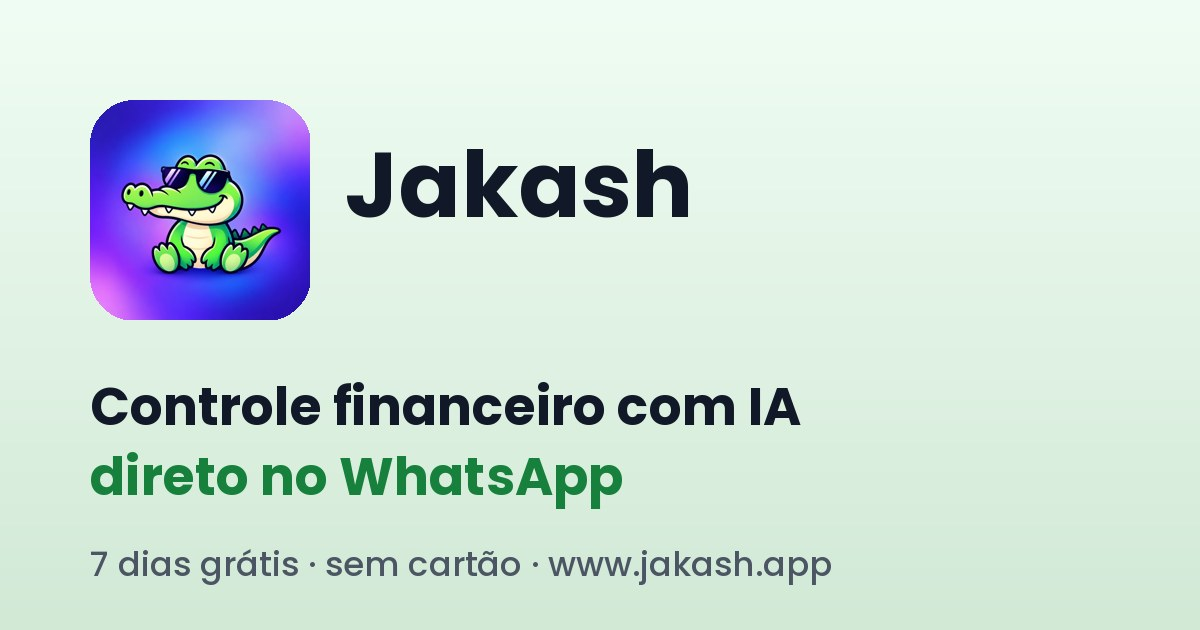
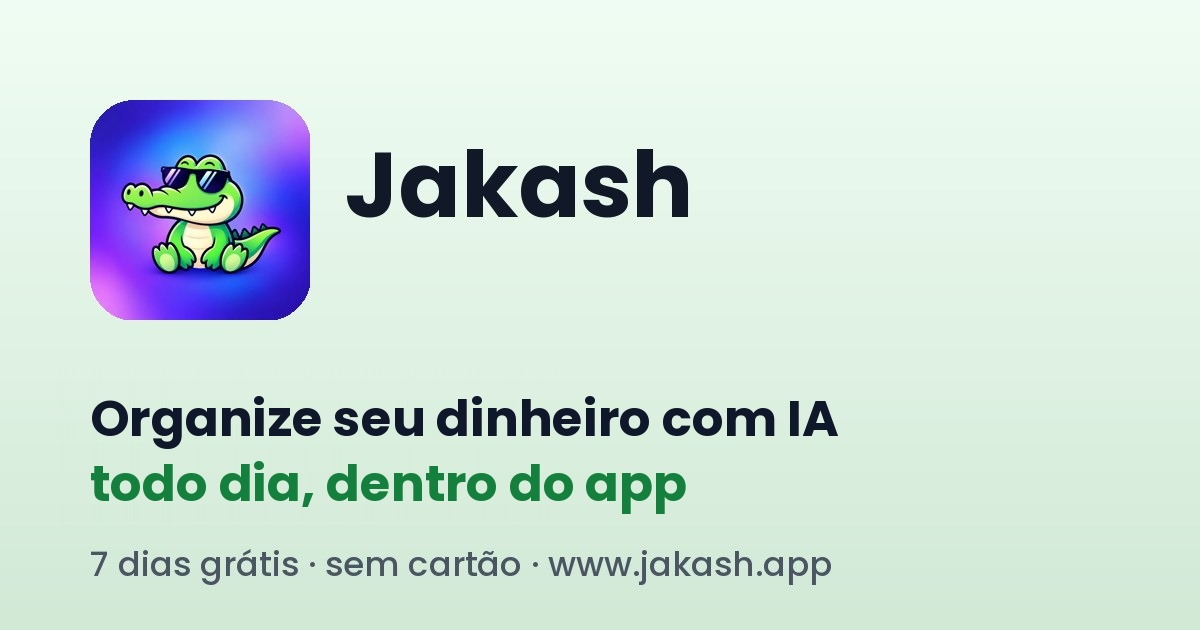
docs(copy): landing, SEO, legais e imagens sem o assistente do WhatsApp
Novo posicionamento: app para organizar o dinheiro no dia a dia, com assistente de IA dentro do app.
- landing, FAQ/JSON-LD, metadata, manifest, llms.txt, ai.txt e 404.html
- termos de uso, politica de privacidade (sem Meta/WhatsApp), sobre; data da ultima atualizacao dos textos legais
- og-image e twitter-card regerados sem a frase do WhatsApp

Claude-Session: https://claude.ai/code/session_0173mJSXeSC2Xzw29ZsWZu14

Changed region(s): [[0.0617, 0.6032, 0.7092, 0.8143]]

diff --git a/src/app/page.tsx b/src/app/page.tsx
@@ -1,13 +1,12 @@
 "use client";
 
-import { useEffect, useState } from "react";
+import { useEffect } from "react";
 import { Header } from "@/components/Header";
 import { Footer } from "@/components/Footer";
 import { CTAButton } from "@/components/CTAButton";
 import { FAQItem } from "@/components/FAQItem";
 import { SectionBadge } from "@/components/SectionBadge";
 import { PLANS, planPrice, type PlanId } from "@/lib/plans";
-import { formatPhone } from "@/lib/phone";
 import { FAQS, homeJsonLd } from "@/lib/seo";
 import { JsonLd } from "@/components/JsonLd";
 import {
@@ -23,7 +22,7 @@ const LANDING_PLANS: { id: PlanId; title: string; subtitle: string; highlight?: 
     subtitle: "Para organizar as suas finanças",
     features: [
       "1 pessoa",
-      "Lançamentos pelo WhatsApp com IA",
+      "Lançamentos e importação de extrato (OFX, CSV, PDF)",
       "Painel com gráficos, limites e objetivos",
       "Contas a pagar, dívidas e reserva de emergência",
       "Lista de compras (Comprar)",
@@ -58,11 +57,6 @@ const LANDING_PLANS: { id: PlanId; title: string; subtitle: string; highlight?: 
 ];
 
 export default function LandingPage() {
-  const [botNumber, setBotNumber] = useState<string | null>(null);
-  useEffect(() => {
-    fetch("/api/whatsapp/bot").then((r) => (r.ok ? r.json() : null)).then((j) => setBotNumber(j?.number ?? null)).catch(() => setBotNumber(null));
-  }, []);
-
   // Intersection Observer for fade-in animations on scroll
   useEffect(() => {
     const observer = new IntersectionObserver((entries) => {
@@ -101,11 +95,11 @@ export default function LandingPage() {
               </div>
               
               <h1 className="text-5xl md:text-6xl font-extrabold text-gray-900 tracking-tight mb-6 leading-[1.1]">
-                Controle financeiro com Inteligência Artificial, direto no <span className="text-brand-dark italic">WhatsApp</span>
+                Organize seu dinheiro <span className="text-brand-dark italic">todo dia</span>, com uma assistente de IA dentro do app
               </h1>
               
               <p className="text-lg md:text-xl text-gray-500 mb-10 leading-relaxed max-w-xl font-medium">
-                Seu assistente financeiro com Inteligência Artificial. Mande “gastei 45 no mercado” no WhatsApp e o Jakash lança, categoriza e mostra no painel para onde vai o seu dinheiro.
+                Lançamentos, contas a pagar, cartões e parcelas, lista de compras, dívidas, objetivos, MEI separado e família. Tudo num lugar só, com a Jaki, a assistente de IA do app, para tirar dúvidas sobre as suas finanças.
               </p>
               
               <CTAButton text="Testar 7 dias grátis →" size="lg" className="h-16 px-10 text-lg w-full sm:w-auto" />
@@ -116,22 +110,22 @@ export default function LandingPage() {
               {/* Fake Phone Mockup */}
               <div className="absolute left-1/2 top-1/2 -translate-x-1/2 -translate-y-1/2 w-[320px] h-[650px] bg-white border-[8px] border-gray-100 rounded-[3rem] shadow-2xl animate-float z-10 flex flex-col overflow-hidden ring-1 ring-gray-200">
                  <div className="w-32 h-6 bg-gray-100 absolute top-0 left-1/2 -translate-x-1/2 rounded-b-3xl z-20"></div>
-                 {/* WhatsApp BG */}
+                 {/* Avisos do app */}
                  <div className="flex-1 bg-[#F5F5F5] p-4 flex flex-col gap-4 pt-16">
                     {/* Floating Notifications */}
                     <div className="bg-white border border-gray-100 p-3 rounded-2xl shadow-sm relative -left-8 w-[110%]">
-                      <div className="flex items-center gap-2 mb-1"><div className="w-5 h-5 bg-[#25D366] rounded-full flex items-center justify-center text-white text-[10px] font-bold">W</div><span className="text-xs text-gray-400 font-bold">Jakash - agora</span></div>
+                      <div className="flex items-center gap-2 mb-1"><div className="w-5 h-5 bg-brand-dark rounded-full flex items-center justify-center text-white text-[10px] font-bold">J</div><span className="text-xs text-gray-400 font-bold">Jakash - agora</span></div>
                       <p className="text-sm text-gray-700 font-medium">Sua conta de luz vence amanhã: <span className="font-bold text-brand-dark">R$ 187,40</span></p>
                     </div>
 
                     <div className="bg-white border border-gray-100 p-3 rounded-2xl shadow-sm relative left-4 w-[100%]">
-                      <div className="flex items-center gap-2 mb-1"><div className="w-5 h-5 bg-[#25D366] rounded-full flex items-center justify-center text-white text-[10px] font-bold">W</div><span className="text-xs text-gray-400 font-bold">Jakash - há 12 min</span></div>
-                      <p className="text-sm text-gray-700 font-medium">Anotei ✅ Mercado, <span className="font-bold text-brand-dark">R$ 45,00</span> em Alimentação</p>
+                      <div className="flex items-center gap-2 mb-1"><div className="w-5 h-5 bg-brand-dark rounded-full flex items-center justify-center text-white text-[10px] font-bold">J</div><span className="text-xs text-gray-400 font-bold">Jakash - há 12 min</span></div>
+                      <p className="text-sm text-gray-700 font-medium">Lançamento salvo: Mercado, <span className="font-bold text-brand-dark">R$ 45,00</span> em Alimentação</p>
                     </div>
 
                     <div className="bg-white border border-gray-100 p-3 rounded-2xl shadow-sm relative -left-4 w-[105%]">
-                      <div className="flex items-center gap-2 mb-1"><div className="w-5 h-5 bg-[#25D366] rounded-full flex items-center justify-center text-white text-[10px] font-bold">W</div><span className="text-xs text-gray-400 font-bold">Jakash - há 1h</span></div>
-                      <p className="text-sm text-gray-700 font-medium">Entrada registrada ✅ Salário, <span className="font-bold text-emerald-600">R$ 4.200,00</span></p>
+                      <div className="flex items-center gap-2 mb-1"><div className="w-5 h-5 bg-brand-dark rounded-full flex items-center justify-center text-white text-[10px] font-bold">J</div><span className="text-xs text-gray-400 font-bold">Jakash - há 1h</span></div>
+                      <p className="text-sm text-gray-700 font-medium">Entrada registrada: Salário, <span className="font-bold text-emerald-600">R$ 4.200,00</span></p>
                     </div>
                  </div>
               </div>
@@ -162,10 +156,10 @@ export default function LandingPage() {
                 jakash
               </div>
               <div className="bg-white border border-gray-100 shadow-sm p-8 rounded-[24px] flex items-center justify-center font-bold text-xl h-32 text-gray-900">
-                WhatsApp
+                Contas e<br/>cartões
               </div>
               <div className="bg-white border border-gray-100 shadow-sm p-8 rounded-[24px] flex items-center justify-center font-bold text-lg text-center h-32 text-gray-900">
-                Inteligência<br/>Artificial
+                Assistente<br/>de IA no app
               </div>
               <div className="bg-white border border-gray-100 shadow-sm p-8 rounded-[24px] flex flex-col items-center justify-center h-32 text-gray-400">
                 <Lock size={24} className="mb-2" />
@@ -180,7 +174,7 @@ export default function LandingPage() {
           <div className="max-w-7xl mx-auto fade-in-section">
             <SectionBadge text="✓ SOLUÇÃO" />
             <h2 className="text-4xl md:text-5xl font-bold mb-16 max-w-2xl">
-              Por que usar um Assistente Financeiro com Inteligência Artificial?
+              Por que usar o Jakash para organizar o seu dinheiro?
             </h2>
             
             <div className="grid grid-cols-1 md:grid-cols-3 gap-8">
@@ -189,7 +183,7 @@ export default function LandingPage() {
                   <CalendarDays size={32} />
                 </div>
                 <h3 className="text-xl font-bold mb-4">Lembretes de contas e vencimentos</h3>
-                <p className="text-gray-500 font-medium leading-relaxed">Contas a pagar, boletos e faturas de cartão no painel, com lembrete no WhatsApp para você não pagar juros.</p>
+                <p className="text-gray-500 font-medium leading-relaxed">Contas a pagar, boletos e faturas de cartão no painel, com lembrete por aviso no aparelho ou e-mail para você não pagar juros.</p>
               </div>
               
               <div className="bg-[var(--bg-1)] p-10 rounded-[2rem] hover:-translate-y-2 transition-transform duration-300">
@@ -217,11 +211,11 @@ export default function LandingPage() {
             <div className="lg:w-1/2">
               <SectionBadge text="✓ AUTOMAÇÃO" />
               <h2 className="text-4xl md:text-5xl font-bold mb-6 leading-tight">
-                Organização Financeira pelo WhatsApp, <br/>
-                <span className="text-brand-dark">sem anotar nada.</span>
+                Organização financeira no dia a dia, <br/>
+                <span className="text-brand-dark">sem complicação.</span>
               </h2>
               <p className="text-lg text-gray-500 font-medium mb-10 leading-relaxed">
-                Você manda a mensagem e ele lança e categoriza. Nas contas a pagar, o Jakash lembra você no WhatsApp antes do vencimento. Você só decide.
+                Cadastre suas contas a pagar e seus cartões. O Jakash lembra você antes do vencimento, por aviso no aparelho ou e-mail. Você só decide.
               </p>
               <CTAButton text="Testar 7 dias grátis →" />
             </div>
@@ -290,12 +284,12 @@ export default function LandingPage() {
                 Registro rápido, <span className="text-brand-dark">sem planilha</span>
               </h2>
               <p className="text-lg text-gray-500 font-medium mb-8 leading-relaxed">
-                Você conta o que gastou ou recebeu e o Jakash organiza: categoria, data e valor no lugar certo, com saldo, limites e objetivos sempre atualizados.
+                Você lança o que gastou ou recebeu e o Jakash organiza: categoria, data e valor no lugar certo, com saldo, limites e objetivos sempre atualizados.
               </p>
               <ul className="space-y-4 mb-10">
                 {[
-                  'Lançamentos pelo WhatsApp, em texto',
-                  'IA que categoriza para você',
+                  'Lançamentos rápidos pelo app',
+                  'Importação de extrato em OFX, CSV, planilha ou PDF',
                   'Categorias e subcategorias que você edita',
                   'Painel com saldo, limites e objetivos'
                 ].map((item, i) => (
@@ -347,8 +341,8 @@ export default function LandingPage() {
                 {/* Floating Chat Bubble */}
                 <div className="absolute bottom-10 left-1/2 -translate-x-1/2 w-[90%] max-w-md bg-white p-6 rounded-3xl shadow-2xl animate-float text-gray-900">
                   <div className="flex items-center gap-3 mb-3">
-                    <div className="w-8 h-8 rounded-full bg-[#25D366] flex items-center justify-center text-white font-bold text-xs">W</div>
-                    <span className="font-bold text-sm text-gray-500">Jakash - agora</span>
+                    <div className="w-8 h-8 rounded-full bg-brand-dark flex items-center justify-center text-white font-bold text-xs">J</div>
+                    <span className="font-bold text-sm text-gray-500">Jaki - agora</span>
                   </div>
                   <p className="text-gray-900 text-[15px] font-medium leading-relaxed">
                     Você gastou R$ 312 em delivery este mês. Ainda está abaixo do orçamento: sobram R$ 88 para usar. 🍔
@@ -364,19 +358,19 @@ export default function LandingPage() {
           <div className="max-w-6xl mx-auto fade-in-section">
             <SectionBadge text="✓ INÍCIO" />
             <h2 className="text-4xl md:text-5xl font-bold mb-20">
-              Como funciona a <span className="text-brand-dark">Gestão Financeira no WhatsApp</span> em 3 passos
+              Como funciona o <span className="text-brand-dark">Jakash</span> em 3 passos
             </h2>
             
             <div className="grid grid-cols-1 md:grid-cols-3 gap-8 mb-16">
               <div className="bg-white rounded-[2rem] p-8 flex flex-col items-center shadow-sm">
                 <div className="h-32 flex items-center justify-center mb-6">
                   <div className="bg-gray-50 px-6 py-3 rounded-full font-mono font-bold text-lg border border-gray-100 flex items-center gap-3 text-gray-700">
-                    <div className="w-8 h-8 rounded-full bg-[#25D366] text-white flex items-center justify-center">W</div>
-                    {botNumber ? formatPhone(botNumber) : "Assistente no WhatsApp"}
+                    <div className="w-8 h-8 rounded-full bg-brand-dark text-white flex items-center justify-center">J</div>
+                    Crie sua conta
                   </div>
                 </div>
                 <h3 className="font-bold text-xl mb-2 text-brand-dark">Passo 1</h3>
-                <p className="text-gray-500 font-medium">Cadastro rápido com seu WhatsApp.</p>
+                <p className="text-gray-500 font-medium">Cadastro rápido, com 7 dias grátis e sem cartão.</p>
               </div>
 
               <div className="bg-white rounded-[2rem] p-8 flex flex-col items-center shadow-sm">
@@ -398,7 +392,7 @@ export default function LandingPage() {
                   </div>
                 </div>
                 <h3 className="font-bold text-xl mb-2 text-brand-dark">Passo 3</h3>
-                <p className="text-gray-500 font-medium">Pronto! Mande suas mensagens e o Jakash lança e categoriza para você.</p>
+                <p className="text-gray-500 font-medium">Pronto! Lance seus gastos e acompanhe tudo no painel.</p>
               </div>
             </div>
             

diff --git a/src/app/politica-de-privacidade/page.tsx b/src/app/politica-de-privacidade/page.tsx
@@ -15,9 +15,9 @@ export default function PrivacidadePage() {
 
       <h2>1. Quais dados coletamos</h2>
       <ul>
-        <li><strong>Cadastro:</strong> nome, e-mail, telefone/WhatsApp e, ao assinar, CPF ou CNPJ (necessário para emitir a cobrança).</li>
+        <li><strong>Cadastro:</strong> nome, e-mail e, ao assinar, CPF ou CNPJ (necessário para emitir a cobrança).</li>
         <li><strong>Dados financeiros que você registra:</strong> lançamentos, categorias, contas, cartões, contas a pagar, limites, objetivos, dívidas, investimentos e arquivos que você importa.</li>
-        <li><strong>Mensagens ao assistente:</strong> o texto (e, quando enviados, fotos e áudios) que você manda no WhatsApp, e as respostas.</li>
+        <li><strong>Conversas com a Jaki:</strong> o texto que você escreve no Chat da Jaki, dentro do app, e as respostas.</li>
         <li><strong>Pagamento:</strong> status da assinatura e histórico de cobranças. Dados de cartão são digitados na página segura do Asaas e <strong>não ficam armazenados no Jakash</strong>.</li>
         <li><strong>Dados técnicos:</strong> informações básicas de acesso e segurança (como registros de erro e horário de uso).</li>
       </ul>
@@ -27,7 +27,7 @@ export default function PrivacidadePage() {
         <li>Prestar o serviço: registrar lançamentos, calcular saldos, relatórios e lembretes.</li>
         <li>Montar o plano para quitar suas dívidas: as contas são feitas no próprio app com os valores que você cadastrou, e a inteligência artificial só escreve a explicação.</li>
         <li>Cobrar a assinatura e dar suporte.</li>
-        <li>Enviar avisos que você ativou (contas a vencer, por push, e-mail ou WhatsApp).</li>
+        <li>Enviar avisos que você ativou (contas a vencer, por push ou e-mail).</li>
         <li>Manter a segurança, prevenir fraudes e cumprir obrigações legais.</li>
         <li>Melhorar o produto, de forma agregada.</li>
       </ul>
@@ -42,12 +42,11 @@ export default function PrivacidadePage() {
         <li><strong>Supabase:</strong> banco de dados e autenticação.</li>
         <li><strong>Vercel:</strong> hospedagem do site e do aplicativo.</li>
         <li><strong>Asaas:</strong> processamento de pagamentos e assinaturas.</li>
-        <li><strong>Meta (WhatsApp Business):</strong> envio e recebimento das mensagens do assistente.</li>
-        <li><strong>OpenAI:</strong> interpretação das mensagens e arquivos pela inteligência artificial e redação da explicação do plano de dívidas (ela recebe valores e nomes das dívidas que você cadastrou, nunca CPF).</li>
+        <li><strong>OpenAI:</strong> respostas do Chat da Jaki e leitura de arquivos importados pela inteligência artificial e redação da explicação do plano de dívidas (ela recebe valores e nomes das dívidas que você cadastrou, nunca CPF).</li>
         <li><strong>Resend:</strong> envio de e-mails do serviço.</li>
       </ul>
       <p>Alguns desses prestadores ficam fora do Brasil, o que significa transferência internacional de dados, feita com as garantias previstas na LGPD. Também podemos compartilhar dados quando a lei ou uma ordem de autoridade exigir.</p>
-      <p><strong>Gestão compartilhada:</strong> se você convidar alguém, essa pessoa verá os dados financeiros compartilhados (veja os <Link href="/termos-de-uso">Termos de uso</Link>). Perfil, assinatura, WhatsApp e conversas do chat não são compartilhados.</p>
+      <p><strong>Gestão compartilhada:</strong> se você convidar alguém, essa pessoa verá os dados financeiros compartilhados (veja os <Link href="/termos-de-uso">Termos de uso</Link>). Perfil, assinatura e conversas do chat não são compartilhados.</p>
 
       <h2>5. Por quanto tempo guardamos</h2>
       <p>Mantemos seus dados enquanto sua conta existir. Ao excluir a conta, apagamos seus dados do aplicativo, exceto o que a lei nos obrigar a guardar (por exemplo, registros de cobrança e fiscais) pelo prazo legal.</p>
@@ -56,7 +55,7 @@ export default function PrivacidadePage() {
       <p>Você pode, a qualquer momento: confirmar que tratamos seus dados; acessá-los; corrigi-los; pedir portabilidade; revogar consentimentos; pedir a eliminação dos dados tratados com consentimento; e saber com quem os compartilhamos. No app, em <strong>Configurações › Dados</strong>, você exporta suas informações, recomeça do zero ou exclui a conta. Para outros pedidos, use a página de <Link href="/contato">Contato</Link>.</p>
 
       <h2>7. Segurança</h2>
-      <p>Usamos conexão criptografada, controle de acesso por conta (cada pessoa só enxerga os próprios dados ou os que compartilhou) e chaves secretas protegidas no servidor. Nenhum sistema é 100% imune, e por isso recomendamos senha forte e nunca compartilhar seu código de vínculo do WhatsApp.</p>
+      <p>Usamos conexão criptografada, controle de acesso por conta (cada pessoa só enxerga os próprios dados ou os que compartilhou) e chaves secretas protegidas no servidor. Nenhum sistema é 100% imune, e por isso recomendamos senha forte e nunca compartilhar seu acesso com outras pessoas.</p>
 
       <h2>8. Crianças e adolescentes</h2>
       <p>O Jakash é destinado a maiores de 18 anos.</p>

diff --git a/src/app/termos-de-uso/page.tsx b/src/app/termos-de-uso/page.tsx
@@ -11,17 +11,17 @@ export const metadata: Metadata = {
 export default function TermosPage() {
   return (
     <LegalPage path="/termos-de-uso" title="Termos de uso" subtitle="As regras para usar o Jakash, em linguagem simples.">
-      <p>Ao criar uma conta ou usar o Jakash (site, aplicativo e assistente no WhatsApp), você concorda com estes termos. Se não concordar, não use o serviço.</p>
+      <p>Ao criar uma conta ou usar o Jakash (site e aplicativo), você concorda com estes termos. Se não concordar, não use o serviço.</p>
 
       <h2>1. O que é o Jakash</h2>
-      <p>O Jakash é uma ferramenta de organização financeira: você registra gastos e receitas pelo aplicativo ou conversando com o assistente no WhatsApp, e acompanha saldos, limites, contas a pagar, objetivos e relatórios.</p>
+      <p>O Jakash é uma ferramenta de organização financeira: você registra gastos e receitas no aplicativo, conta com a Jaki, assistente de inteligência artificial dentro do app, e acompanha saldos, limites, contas a pagar, objetivos e relatórios.</p>
       <p><strong>O Jakash não é consultoria financeira, contábil, jurídica, tributária ou de investimentos.</strong> As informações e simulações servem para sua organização pessoal e não substituem a orientação de um profissional. O Jakash também não emite nota fiscal e, por enquanto, não se conecta automaticamente ao seu banco (Open Finance): os lançamentos vêm de você ou de arquivos que você importa.</p>
 
       <h2>2. Cadastro e segurança da conta</h2>
       <ul>
         <li>Você precisa ter 18 anos ou mais e informar dados verdadeiros.</li>
         <li>Você é responsável por manter sua senha em segredo e por tudo o que acontece na sua conta.</li>
-        <li>O número de WhatsApp conectado deve ser seu. Se perceber uso indevido, avise-nos imediatamente.</li>
+        <li>Se perceber uso indevido da sua conta, avise-nos imediatamente.</li>
       </ul>
 
       <h2>3. Planos, teste grátis e pagamento</h2>
@@ -37,7 +37,7 @@ export default function TermosPage() {
       <p>Você pode cancelar a renovação quando quiser, sem multa, em Configurações › Planos, e continua com acesso até o fim do período já pago. As regras de reembolso estão na <Link href="/politica-de-reembolso">Política de reembolso</Link>.</p>
 
       <h2>5. Gestão compartilhada</h2>
-      <p>Nos planos que permitem, você pode convidar outras pessoas para dividir as finanças. Quem aceita o convite passa a ver e editar os dados financeiros compartilhados (contas, lançamentos, cartões, contas a pagar, limites, objetivos, dívidas e investimentos). Perfil, assinatura, WhatsApp e conversas do chat continuam privados. Só convide quem você conhece e confia; qualquer participante pode encerrar o compartilhamento a qualquer momento.</p>
+      <p>Nos planos que permitem, você pode convidar outras pessoas para dividir as finanças. Quem aceita o convite passa a ver e editar os dados financeiros compartilhados (contas, lançamentos, cartões, contas a pagar, limites, objetivos, dívidas e investimentos). Perfil, assinatura e conversas do chat continuam privados. Só convide quem você conhece e confia; qualquer participante pode encerrar o compartilhamento a qualquer momento.</p>
 
       <h2>6. Assistente com inteligência artificial</h2>
       <ul>
@@ -53,7 +53,7 @@ export default function TermosPage() {
       <p>A marca Jakash, o código, o design e os textos são nossos ou licenciados para nós. Os dados que você registra continuam sendo seus.</p>
 
       <h2>9. Disponibilidade e responsabilidade</h2>
-      <p>Trabalhamos para manter o serviço no ar e seguro, mas não garantimos funcionamento ininterrupto: pode haver manutenção, falhas de internet ou instabilidade de terceiros (como WhatsApp e provedores de pagamento). Na medida permitida pela lei, não respondemos por decisões financeiras tomadas com base nas informações do app, nem por danos indiretos. Nada aqui limita direitos que a lei de defesa do consumidor garante a você.</p>
+      <p>Trabalhamos para manter o serviço no ar e seguro, mas não garantimos funcionamento ininterrupto: pode haver manutenção, falhas de internet ou instabilidade de terceiros (como provedores de pagamento e de inteligência artificial). Na medida permitida pela lei, não respondemos por decisões financeiras tomadas com base nas informações do app, nem por danos indiretos. Nada aqui limita direitos que a lei de defesa do consumidor garante a você.</p>
 
       <h2>10. Privacidade</h2>
       <p>Tratamos seus dados conforme a <Link href="/politica-de-privacidade">Política de privacidade</Link> e a <Link href="/politica-de-cookies">Política de cookies</Link>.</p>

diff --git a/src/lib/seo.ts b/src/lib/seo.ts
@@ -7,12 +7,12 @@ export const INSTAGRAM_URL = "https://www.instagram.com/jakashfinancas/";
 // o dado estruturado nunca pode dizer algo que a página não mostra. Preços vêm de lib/plans.
 export const FAQS: { q: string; a: string }[] = [
   {
-    q: "O que é o Jakash e como funciona o controle financeiro pelo WhatsApp?",
-    a: "O Jakash é um aplicativo de organização financeira com um assistente de Inteligência Artificial no WhatsApp. Você manda uma mensagem como “gastei 45 no mercado” e ele registra e categoriza o lançamento. No painel você acompanha saldo, limites de gastos, contas a pagar, dívidas e objetivos.",
+    q: "O que é o Jakash e como funciona?",
+    a: "O Jakash é um aplicativo para organizar o dinheiro no dia a dia. Você faz seus lançamentos, cadastra contas a pagar, cartões e parcelas, monta a lista de compras, acompanha limites, objetivos e o plano para sair das dívidas, separa as finanças do MEI e divide tudo com a família. Dentro do app, a Jaki, assistente de Inteligência Artificial, responde dúvidas sobre as suas finanças.",
   },
   {
     q: "Como a Inteligência Artificial ajuda na minha organização financeira?",
-    a: "A IA entende suas mensagens no WhatsApp, identifica valor, categoria e data e lança tudo para você. Ela pode errar, por isso vale conferir os lançamentos no painel e corrigir quando precisar.",
+    a: "No Chat da Jaki, dentro do app, você pergunta sobre os seus gastos e limites e recebe respostas com base nos seus dados. A IA também ajuda a ler extratos, faturas e comprovantes na hora de importar. Ela pode errar, por isso vale conferir tudo antes de salvar.",
   },
   {
     q: "Quais são os planos e os preços do Jakash?",
@@ -24,7 +24,7 @@ export const FAQS: { q: string; a: string }[] = [
   },
   {
     q: "Funciona com o meu banco?",
-    a: "Funciona com qualquer banco, porque você registra os lançamentos pelo WhatsApp ou pelo app, ou importa extratos, e informa o saldo das suas contas. A conexão automática com bancos (Open Finance) ainda não está disponível.",
+    a: "Funciona com qualquer banco, porque você registra os lançamentos pelo app ou importa extratos, e informa o saldo das suas contas. A conexão automática com bancos (Open Finance) ainda não está disponível.",
   },
   {
     q: "Meus dados financeiros estão seguros no Jakash?",
@@ -73,7 +73,7 @@ export function homeJsonLd() {
         applicationCategory: "FinanceApplication",
         operatingSystem: "Web",
         inLanguage: "pt-BR",
-        description: "Aplicativo de controle financeiro com assistente de Inteligência Artificial no WhatsApp: lançamentos por mensagem, limites, contas a pagar, objetivos e gestão compartilhada.",
+        description: "Aplicativo para organizar o dinheiro no dia a dia, com assistente de Inteligência Artificial dentro do app: lançamentos, contas a pagar, cartões e parcelas, lista de compras, saída das dívidas, objetivos, MEI separado e gestão compartilhada.",
         url: SITE_URL,
         publisher: { "@id": `${SITE_URL}/#organization` },
         offers: PLAN_IDS.map((id) => ({

diff --git a/src/app/sobre/page.tsx b/src/app/sobre/page.tsx
@@ -4,19 +4,19 @@ import { LegalPage } from "@/components/LegalPage";
 
 export const metadata: Metadata = {
   title: "Sobre o Jakash",
-  description: "Quem somos e por que criamos o Jakash: finanças simples, direto no WhatsApp.",
+  description: "Quem somos e por que criamos o Jakash: organizar o dinheiro no dia a dia, sem complicação.",
   alternates: { canonical: "/sobre" },
 };
 
 export default function SobrePage() {
   return (
-    <LegalPage path="/sobre" title="Sobre o Jakash" subtitle="Finanças simples, direto no WhatsApp." updated={false}>
-      <p>O Jakash nasceu de uma ideia simples: controlar o dinheiro não deveria dar trabalho. Em vez de abrir planilhas e preencher campos, você manda uma mensagem, tipo <em>&ldquo;gastei 45 no mercado&rdquo;</em>, e o assistente lança, categoriza e mostra no painel para onde o seu dinheiro está indo.</p>
+    <LegalPage path="/sobre" title="Sobre o Jakash" subtitle="Organizar o dinheiro no dia a dia, sem complicação." updated={false}>
+      <p>O Jakash nasceu de uma ideia simples: controlar o dinheiro não deveria dar trabalho. Em vez de abrir planilhas e se perder em campos, você lança seus gastos, acompanha contas e cartões e vê no painel para onde o seu dinheiro está indo. Dentro do app, a Jaki, nossa assistente de inteligência artificial, ajuda a tirar dúvidas sobre as suas finanças.</p>
 
       <h2>O que fazemos</h2>
       <ul>
-        <li><strong>Lançamentos pelo WhatsApp</strong> com inteligência artificial.</li>
-        <li><strong>Painel completo:</strong> saldos, limites de gastos, contas a pagar, objetivos, reserva de emergência, dívidas e investimentos.</li>
+        <li><strong>Assistente de IA dentro do app</strong> (Chat da Jaki) para perguntar sobre as suas finanças.</li>
+        <li><strong>Painel completo:</strong> saldos, limites de gastos, contas a pagar, cartões e parcelas, lista de compras, objetivos, reserva de emergência, plano para sair das dívidas e investimentos.</li>
         <li><strong>Gestão compartilhada</strong> para casal, família ou sócios.</li>
         <li><strong>Ferramentas para MEI:</strong> limite anual, DASN, recibos e relatórios.</li>
       </ul>

diff --git a/src/app/layout.tsx b/src/app/layout.tsx
@@ -8,23 +8,23 @@ const jakarta = Plus_Jakarta_Sans({ subsets: ["latin"], variable: "--font-jakart
 
 export const metadata: Metadata = {
   metadataBase: new URL("https://www.jakash.app"),
-  title: "Jakash | Controle Financeiro com IA no WhatsApp",
-  description: "Mande “gastei 45 no mercado” no WhatsApp e o Jakash lança e categoriza. Painel com limites, contas a pagar e objetivos. 7 dias grátis, sem cartão.",
+  title: "Jakash | Organize seu dinheiro com IA",
+  description: "Organize seu dinheiro no dia a dia: lançamentos, contas a pagar, cartões, dívidas e objetivos, com assistente de IA dentro do app. 7 dias grátis, sem cartão.",
   alternates: { canonical: "/" },
   robots: { index: true, follow: true, googleBot: { index: true, follow: true, "max-image-preview": "large", "max-snippet": -1 } },
   openGraph: {
-    title: "Jakash | Controle Financeiro com IA no WhatsApp",
-    description: "Mande uma mensagem no WhatsApp e o Jakash lança e categoriza seus gastos. 7 dias grátis, sem cartão.",
+    title: "Jakash | Organize seu dinheiro com IA",
+    description: "Organize seu dinheiro no dia a dia, com assistente de IA dentro do app. 7 dias grátis, sem cartão.",
     url: "https://www.jakash.app",
     siteName: "Jakash",
-    images: [{ url: "/og-image.jpg", width: 1200, height: 630, alt: "Jakash: controle financeiro com IA no WhatsApp" }],
+    images: [{ url: "/og-image.jpg", width: 1200, height: 630, alt: "Jakash: organize seu dinheiro com IA" }],
     locale: "pt_BR",
     type: "website",
   },
   twitter: {
     card: "summary_large_image",
-    title: "Jakash | Controle Financeiro com IA no WhatsApp",
-    description: "Mande uma mensagem no WhatsApp e o Jakash lança e categoriza seus gastos.",
+    title: "Jakash | Organize seu dinheiro com IA",
+    description: "Organize seu dinheiro no dia a dia, com assistente de IA dentro do app.",
     images: ["/og-image.jpg"],
   },
   manifest: "/manifest.webmanifest",

diff --git a/src/components/LegalPage.tsx b/src/components/LegalPage.tsx
@@ -3,7 +3,7 @@ import { Footer } from "@/components/Footer";
 import { JsonLd } from "@/components/JsonLd";
 import { breadcrumbJsonLd } from "@/lib/seo";
 
-export const LEGAL_UPDATED = "15 de outubro de 2026";
+export const LEGAL_UPDATED = "23 de outubro de 2026";
 
 // Casca das páginas institucionais (termos, privacidade, reembolso, cookies, sobre, contato).
 export function LegalPage({ title, subtitle, path, updated = true, children }: { title: string; subtitle?: string; path: string; updated?: boolean; children: React.ReactNode }) {

diff --git a/public/404.html b/public/404.html
@@ -112,7 +112,7 @@
 
     <div class="contacts">
         <p>Precisa de ajuda? Fale conosco:</p>
-        <p><a href="mailto:contato@jakash.app">contato@jakash.app</a> | <a href="https://wa.me/5511999999999">WhatsApp</a></p>
+        <p><a href="mailto:contato@jakash.app">contato@jakash.app</a></p>
     </div>
 </body>
 </html>
